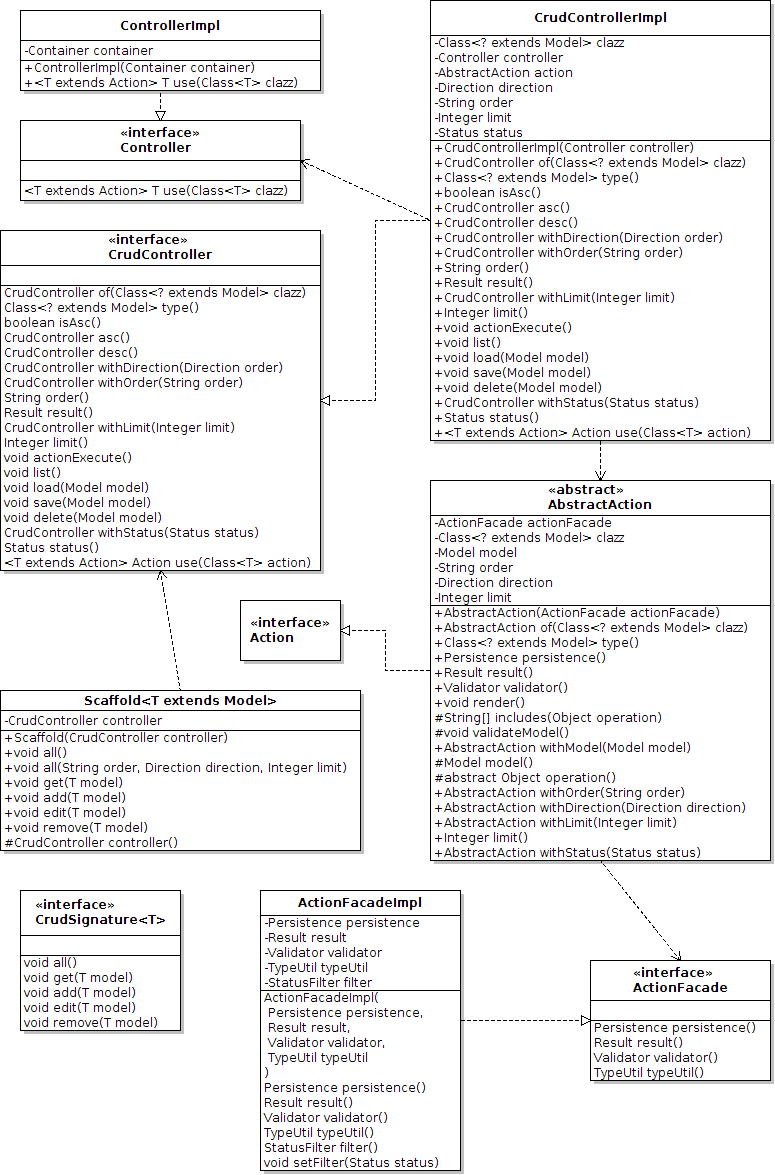
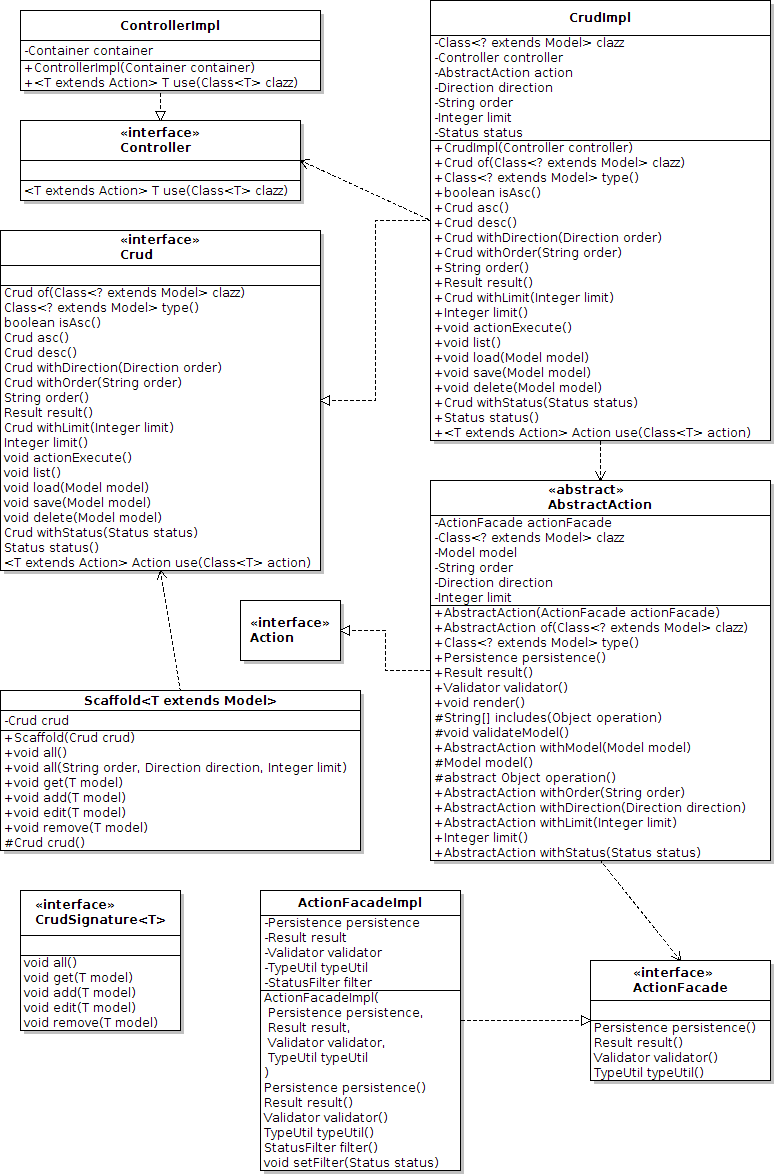
Renamed CrudController to Crud

diff --git a/vplus-core/src/main/java/org/vplus/core/controller/CrudImpl.java b/vplus-core/src/main/java/org/vplus/core/controller/CrudImpl.java
@@ -9,7 +9,7 @@ import br.com.caelum.vraptor.Result;
 import br.com.caelum.vraptor.ioc.Component;
 
 @Component
-public class CrudControllerImpl implements CrudController {
+public class CrudImpl implements Crud {
 
 	private Class<? extends Model> clazz;
 	private Controller controller;
@@ -19,7 +19,7 @@ public class CrudControllerImpl implements CrudController {
 	private Integer limit;
 	private Status status;
 
-	public CrudControllerImpl(Controller controller) {
+	public CrudImpl(Controller controller) {
 		this.controller = controller;
 		this.action = ActionNull.create();
 		this.direction = Direction.NULL;
@@ -48,7 +48,7 @@ public class CrudControllerImpl implements CrudController {
 	}
 	
 	@Override
-	public CrudController of(Class<? extends Model> clazz) {
+	public Crud of(Class<? extends Model> clazz) {
 		this.clazz = clazz;
 		return this;
 	}
@@ -59,7 +59,7 @@ public class CrudControllerImpl implements CrudController {
 	}
 
 	@Override
-	public CrudController asc() throws CrudException {
+	public Crud asc() throws CrudException {
 		this.direction = Direction.ASC;
 		return this;
 	}
@@ -70,19 +70,19 @@ public class CrudControllerImpl implements CrudController {
 	}
 
 	@Override
-	public CrudController desc() throws CrudException {
+	public Crud desc() throws CrudException {
 		this.direction = Direction.DESC;
 		return this;
 	}
 	
 	@Override
-	public CrudController withDirection(Direction direction) throws CrudException {
+	public Crud withDirection(Direction direction) throws CrudException {
 		this.direction = direction;
 		return this;
 	}
 	
 	@Override
-	public CrudController withOrder(String order) {
+	public Crud withOrder(String order) {
 		this.order = order;
 		return this;
 	}
@@ -102,7 +102,7 @@ public class CrudControllerImpl implements CrudController {
 	}
 
 	@Override
-	public CrudController withLimit(Integer limit) {
+	public Crud withLimit(Integer limit) {
 		this.limit = limit;
 		return this;
 	}
@@ -138,7 +138,7 @@ public class CrudControllerImpl implements CrudController {
 	}
 
 	@Override
-	public CrudController withStatus(Status status) {
+	public Crud withStatus(Status status) {
 		this.status = status;
 		return this;
 	}

diff --git a/vplus-core/src/main/java/org/vplus/core/mock/CrudMock.java b/vplus-core/src/main/java/org/vplus/core/mock/CrudMock.java
@@ -6,7 +6,7 @@ import java.util.Arrays;
 
 import org.vplus.core.controller.Action;
 import org.vplus.core.controller.ActionFacade;
-import org.vplus.core.controller.CrudController;
+import org.vplus.core.controller.Crud;
 import org.vplus.core.exception.CrudException;
 import org.vplus.core.model.Model;
 import org.vplus.core.model.Status;
@@ -14,17 +14,17 @@ import org.vplus.core.persistence.Direction;
 
 import br.com.caelum.vraptor.Result;
 
-public class CrudControllerMock implements CrudController {
+public class CrudMock implements Crud {
 
 	private Class<? extends Model> type;
 	private ActionFacade actionFacade;
 
-	public CrudControllerMock() {
+	public CrudMock() {
 		this.actionFacade = new ActionFacadeMock();
 	}
 
 	@Override
-	public CrudController of(Class<? extends Model> type) {
+	public Crud of(Class<? extends Model> type) {
 		this.type = type;
 		return this;
 	}
@@ -40,22 +40,22 @@ public class CrudControllerMock implements CrudController {
 	}
 
 	@Override
-	public CrudController asc() throws CrudException {
+	public Crud asc() throws CrudException {
 		return this;
 	}
 
 	@Override
-	public CrudController desc() throws CrudException {
+	public Crud desc() throws CrudException {
 		return this;
 	}
 
 	@Override
-	public CrudController withDirection(Direction order) throws CrudException {
+	public Crud withDirection(Direction order) throws CrudException {
 		return this;
 	}
 
 	@Override
-	public CrudController withOrder(String order) {
+	public Crud withOrder(String order) {
 		return this;
 	}
 
@@ -70,7 +70,7 @@ public class CrudControllerMock implements CrudController {
 	}
 
 	@Override
-	public CrudController withLimit(Integer limit) {
+	public Crud withLimit(Integer limit) {
 		return this;
 	}
 
@@ -102,7 +102,7 @@ public class CrudControllerMock implements CrudController {
 	}
 
 	@Override
-	public CrudController withStatus(Status status) {
+	public Crud withStatus(Status status) {
 		return this;
 	}
 

diff --git a/vplus-core/src/main/java/org/vplus/core/controller/Scaffold.java b/vplus-core/src/main/java/org/vplus/core/controller/Scaffold.java
@@ -15,10 +15,10 @@ import br.com.caelum.vraptor.Put;
 
 public abstract class Scaffold<T extends Model> {
 
-	private CrudController controller;
+	private Crud crud;
 
-	public Scaffold(CrudController controller) {
-		this.controller = controller;
+	public Scaffold(Crud controller) {
+		this.crud = controller;
 	}
 
 	@SuppressWarnings("unchecked")
@@ -28,22 +28,22 @@ public abstract class Scaffold<T extends Model> {
 
 	@Get("")
 	public void all() throws CrudException {
-		controller.of(type()).list();
+		crud.of(type()).list();
 	}
 	
 	@Get("/status/{status}")
 	public void all(Status status) throws CrudException {
-		controller.of(type()).withStatus(status).list();		
+		crud.of(type()).withStatus(status).list();		
 	}
 	
 	@Get("/order/{order}/dir/{direction}/limit/{limit}")
 	public void all(String order, Direction direction, Integer limit) throws CrudException {
-		controller.withOrder(order).withDirection(direction).withLimit(limit).list();
+		crud.withOrder(order).withDirection(direction).withLimit(limit).list();
 	}
 	
 	@Get("/{model.id}")
 	public void get(T model) throws CrudException {
-		controller.load(model);
+		crud.load(model);
 	}
 	
 	@Post("")
@@ -55,16 +55,16 @@ public abstract class Scaffold<T extends Model> {
 	@Put("/{model.id}")
 	@Consumes(value = "application/json")
 	public void edit(T model) throws CrudException {
-		controller.save(model);
+		crud.save(model);
 	}
 	
 	@Delete("/{model.id}")
 	public void remove(T model) throws CrudException {
-		controller.delete(model);
+		crud.delete(model);
 	}
 
-	protected CrudController controller() {
-		return controller;
+	protected Crud crud() {
+		return crud;
 	}
 
 }

diff --git a/vplus-core/src/test/java/org/vplus/core/controller/CrudImplTest.java b/vplus-core/src/test/java/org/vplus/core/controller/CrudImplTest.java
@@ -18,7 +18,7 @@ import org.junit.Before;
 import org.junit.Test;
 import org.mockito.Mock;
 import org.mockito.MockitoAnnotations;
-import org.vplus.core.controller.CrudControllerImpl.ActionNull;
+import org.vplus.core.controller.CrudImpl.ActionNull;
 import org.vplus.core.exception.CrudException;
 import org.vplus.core.mock.ActionFacadeMock;
 import org.vplus.core.model.Model;
@@ -28,9 +28,9 @@ import org.vplus.core.persistence.Direction;
 
 import br.com.caelum.vraptor.ioc.Container;
 
-public class CrudControllerImplTest {
+public class CrudImplTest {
 
-	CrudController crud;
+	Crud crud;
 	Controller controller;
 	@Mock Container container;
 	private AbstractAction actionList;
@@ -55,7 +55,7 @@ public class CrudControllerImplTest {
 		actionDelete = spy(new ActionDelete(actionFacade));
 		doReturn(actionDelete).when(controller).use(type(actionDelete));
 
-		crud = spy(new CrudControllerImpl(controller));
+		crud = spy(new CrudImpl(controller));
 	}
 
 	@SuppressWarnings("unchecked")
@@ -124,7 +124,7 @@ public class CrudControllerImplTest {
 	
 	@Test
 	public void shouldExecuteActionNull() throws CrudException {
-		ActionNull actionNull = new CrudControllerImpl.ActionNull(null);
+		ActionNull actionNull = new CrudImpl.ActionNull(null);
 		assertThat(actionNull.operation(), nullValue());
 		assertThat(actionNull.withOrder(null), nullValue());
 		assertThat(actionNull.withDirection(null), nullValue());

diff --git a/vplus-core/src/test/java/org/vplus/core/controller/ScaffoldTest.java b/vplus-core/src/test/java/org/vplus/core/controller/ScaffoldTest.java
@@ -11,7 +11,7 @@ import org.junit.Test;
 import org.mockito.Mock;
 import org.mockito.MockitoAnnotations;
 import org.vplus.core.exception.CrudException;
-import org.vplus.core.mock.CrudControllerMock;
+import org.vplus.core.mock.CrudMock;
 import org.vplus.core.model.Model;
 import org.vplus.core.model.MyEntity;
 import org.vplus.core.model.Status;
@@ -20,18 +20,18 @@ import org.vplus.core.persistence.Direction;
 public class ScaffoldTest {
 
 	Scaffold<MyEntity> scaffold;
-	@Mock CrudController crud;
+	@Mock Crud crud;
 	
 	static class MyScaffold extends Scaffold<MyEntity>{
-		public MyScaffold(CrudController controller) {
-			super(controller);
+		public MyScaffold(Crud crud) {
+			super(crud);
 		}
 	}
 	
 	@Before
 	public void setUp() throws Exception {
 		MockitoAnnotations.initMocks(this);
-		crud = spy(new CrudControllerMock());
+		crud = spy(new CrudMock());
 		scaffold = new MyScaffold(crud);
 	}
 
@@ -92,6 +92,6 @@ public class ScaffoldTest {
 	
 	@Test
 	public void shouldExecuteUseMethod() throws CrudException {
-		assertThat(scaffold.controller(), notNullValue());
+		assertThat(scaffold.crud(), notNullValue());
 	}
 }

diff --git a/vplus-core/src/main/java/org/vplus/core/controller/Crud.java b/vplus-core/src/main/java/org/vplus/core/controller/Crud.java
@@ -7,27 +7,27 @@ import org.vplus.core.persistence.Direction;
 
 import br.com.caelum.vraptor.Result;
 
-public interface CrudController {
+public interface Crud {
 
-	CrudController of(Class<? extends Model> clazz);
+	Crud of(Class<? extends Model> clazz);
 
 	Class<? extends Model> type();
 
 	boolean isAsc();
 	
-	CrudController asc() throws CrudException;
+	Crud asc() throws CrudException;
 
-	CrudController desc() throws CrudException;
+	Crud desc() throws CrudException;
 
-	CrudController withDirection(Direction order) throws CrudException;
+	Crud withDirection(Direction order) throws CrudException;
 	
-	CrudController withOrder(String order);
+	Crud withOrder(String order);
 
 	String order();
 
 	Result result();
 	
-	CrudController withLimit(Integer limit);
+	Crud withLimit(Integer limit);
 
 	Integer limit();
 
@@ -39,7 +39,7 @@ public interface CrudController {
 
 	void delete(Model model) throws CrudException;
 
-	CrudController withStatus(Status status);
+	Crud withStatus(Status status);
 
 	Status status();
 

diff --git a/vplus-web/src/main/java/org/vplus/web/MyController.java b/vplus-web/src/main/java/org/vplus/web/MyController.java
@@ -1,6 +1,6 @@
 package org.vplus.web;
 
-import org.vplus.core.controller.CrudController;
+import org.vplus.core.controller.Crud;
 import org.vplus.core.controller.Scaffold;
 import org.vplus.core.model.StatusFilter;
 
@@ -11,7 +11,7 @@ import br.com.caelum.vraptor.Resource;
 @Path("/my")
 public class MyController extends Scaffold<MyEntity> {
 
-	public MyController(CrudController controller, StatusFilter filter) {
+	public MyController(Crud controller, StatusFilter filter) {
 		super(controller);
 		filter.disableFilter();
 	}
